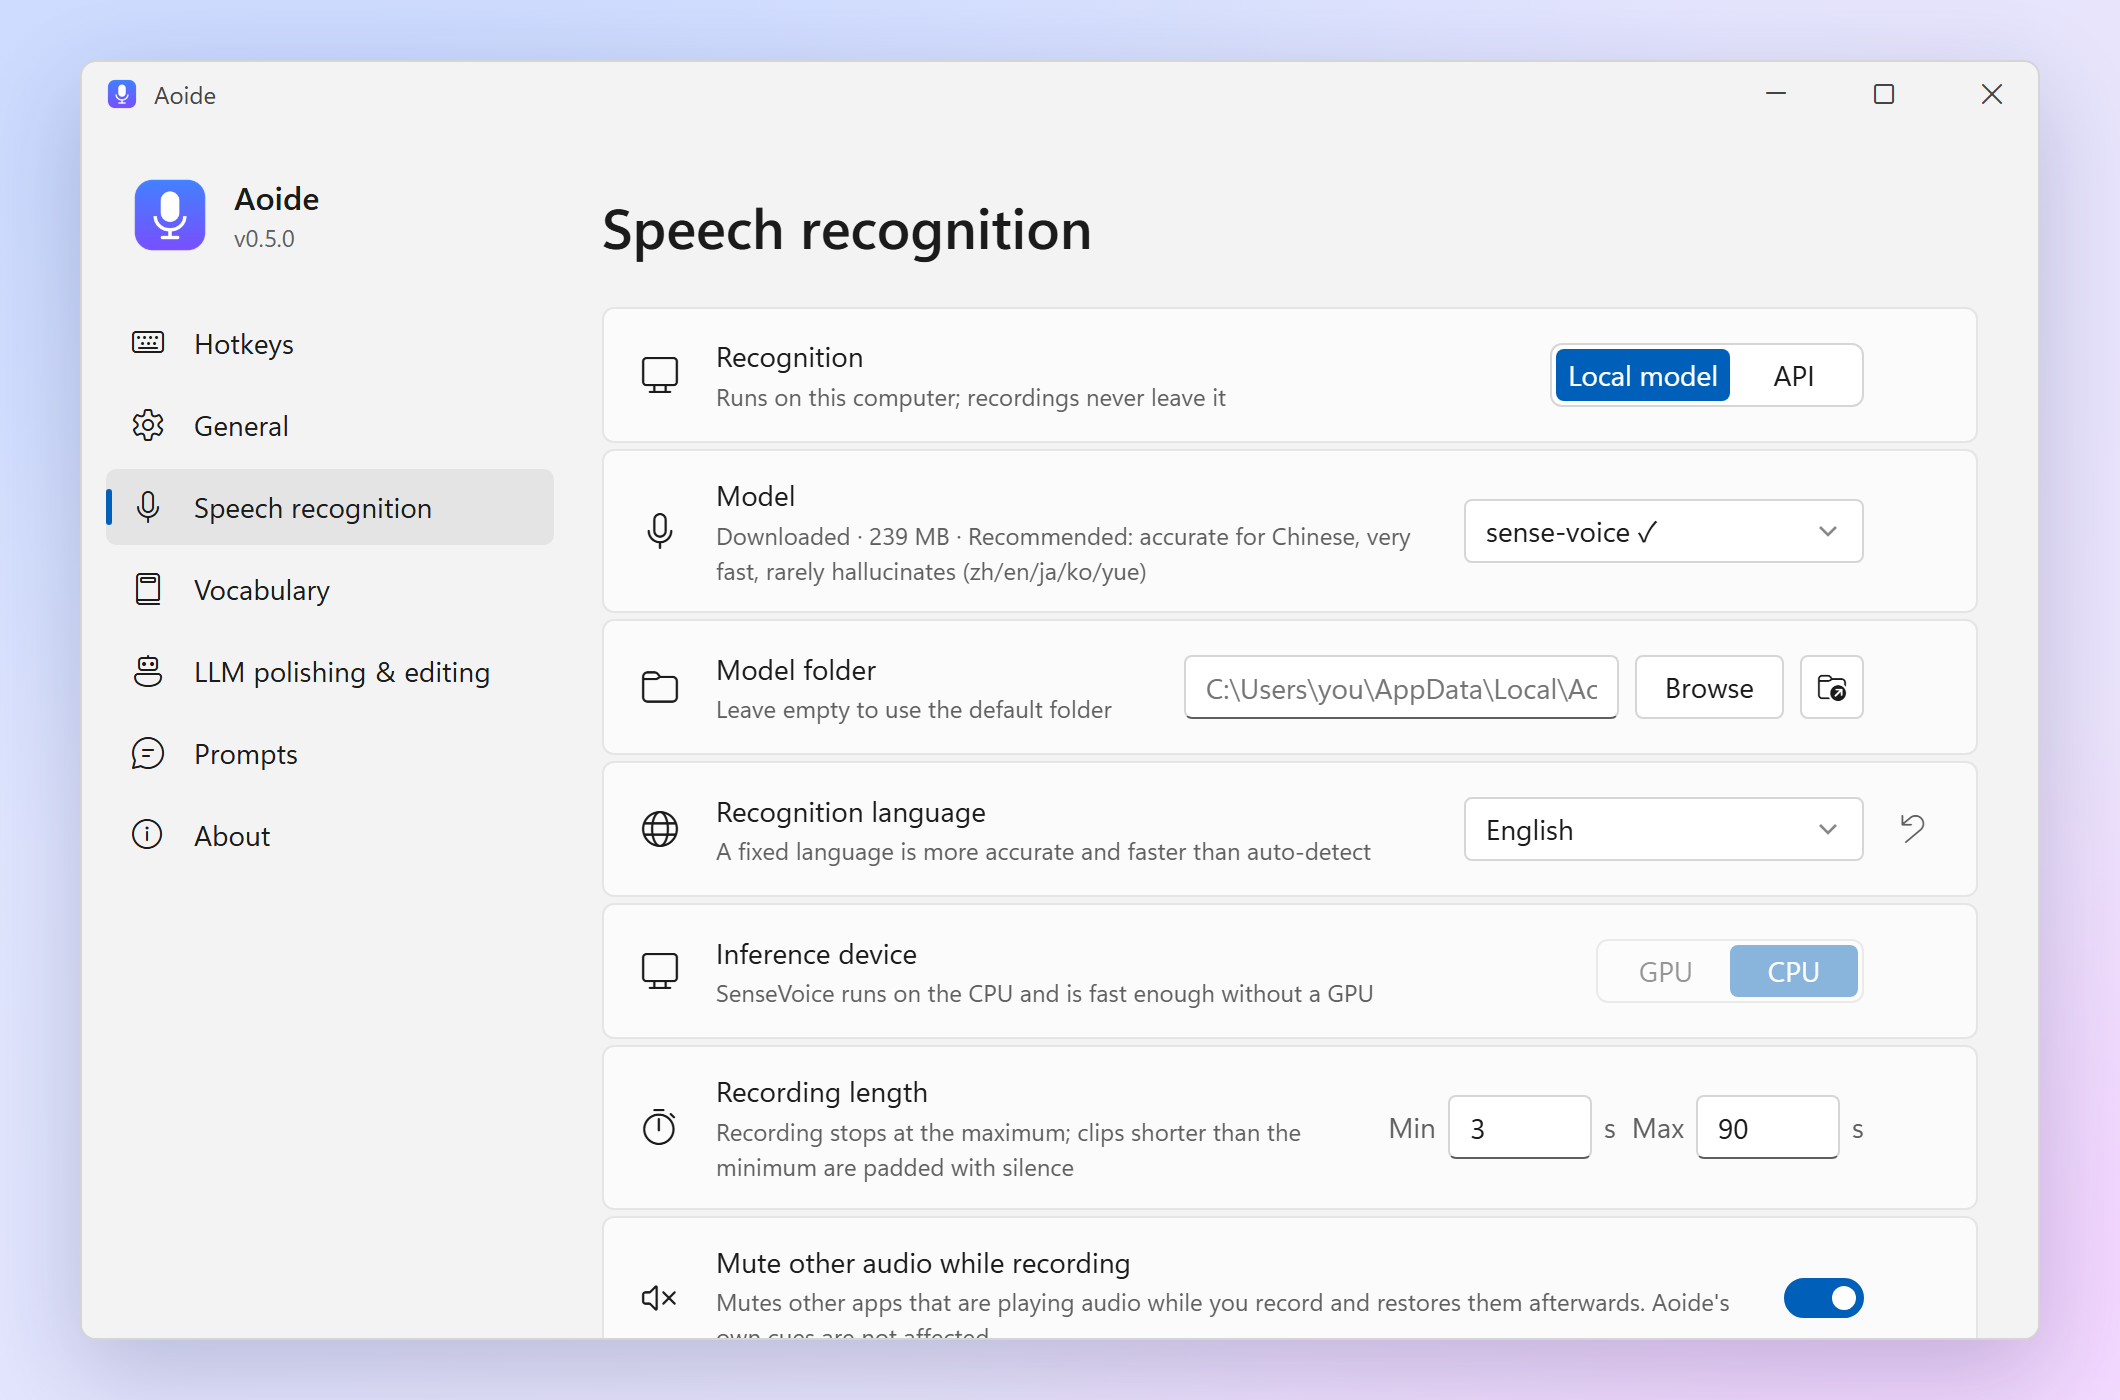
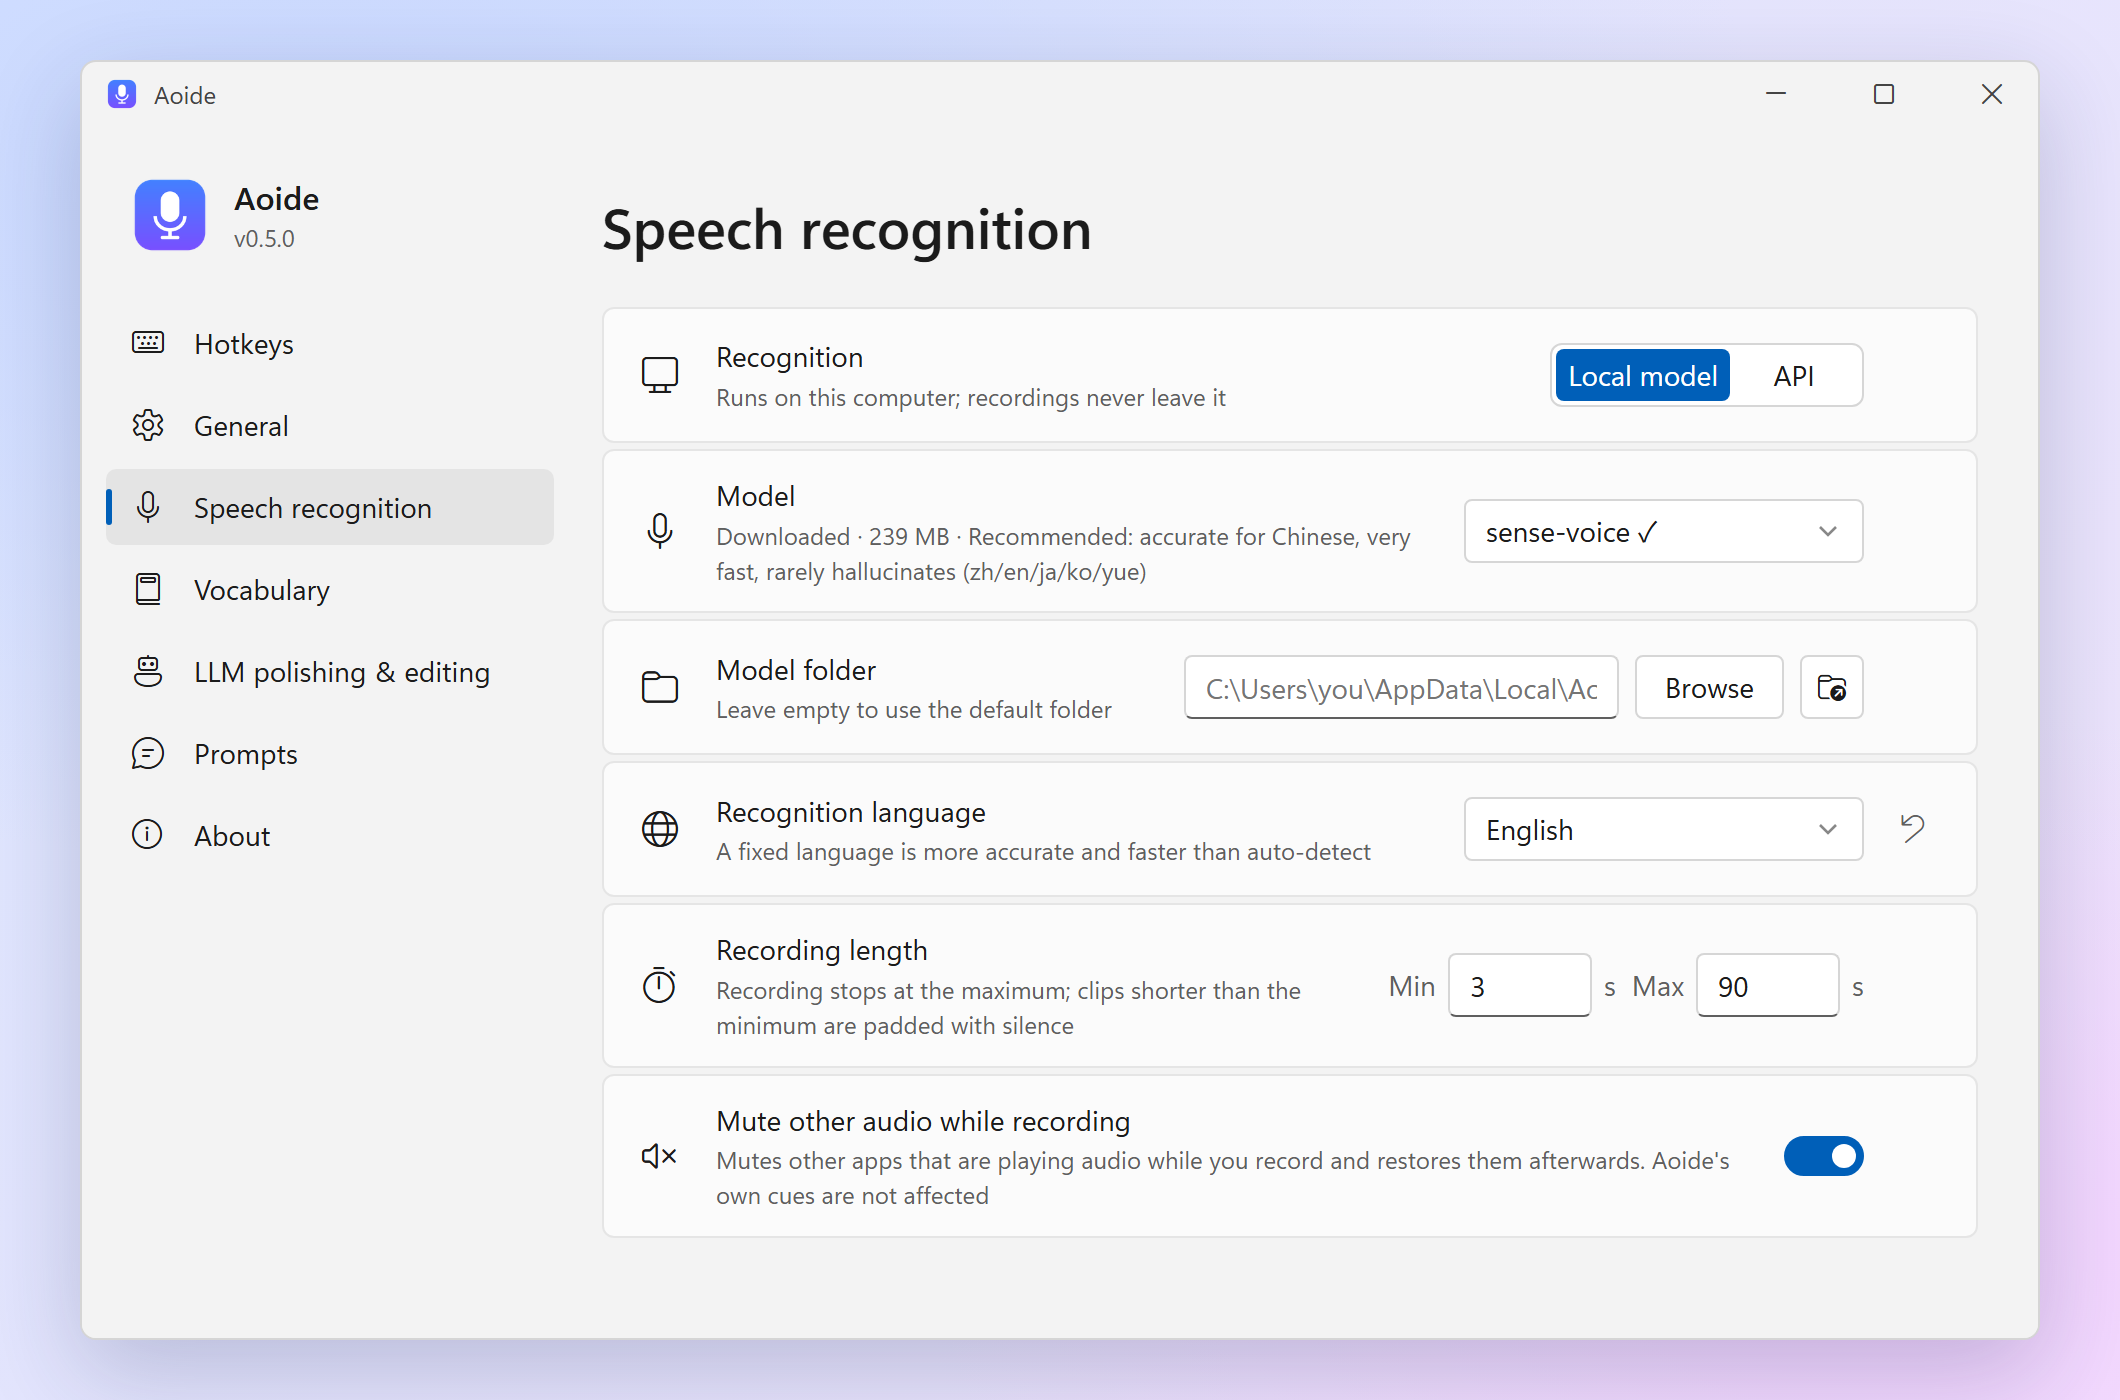
Hide the inference device setting for SenseVoice models
SenseVoice always runs on the CPU, which is fast enough, so the GPU/CPU
choice only applied to Whisper models and was shown greyed out for
SenseVoice. It is now hidden while a SenseVoice model is selected and
appears again for Whisper models. README screenshots updated.

diff --git a/ui/app.js b/ui/app.js
@@ -130,8 +130,9 @@ function renderModelStatus() {
   $("model-desc").textContent = parts.join(" · ");
   $("download-btn").hidden = m.downloaded || downloading !== null;
 
-  // SenseVoice 固定在 CPU 上运行
+  // SenseVoice 固定在 CPU 上运行（速度已足够快），没有可选的，整项隐藏；Whisper 才显示
   const cpuOnly = m.engine === "sense_voice";
+  $("device-seg").closest(".card").hidden = cpuOnly;
   $("device-seg").classList.toggle("disabled", cpuOnly);
   $("device-seg").querySelectorAll("button").forEach((b) =>
     b.classList.toggle("on", b.dataset.value === (cpuOnly ? "cpu" : state.config.device)));
